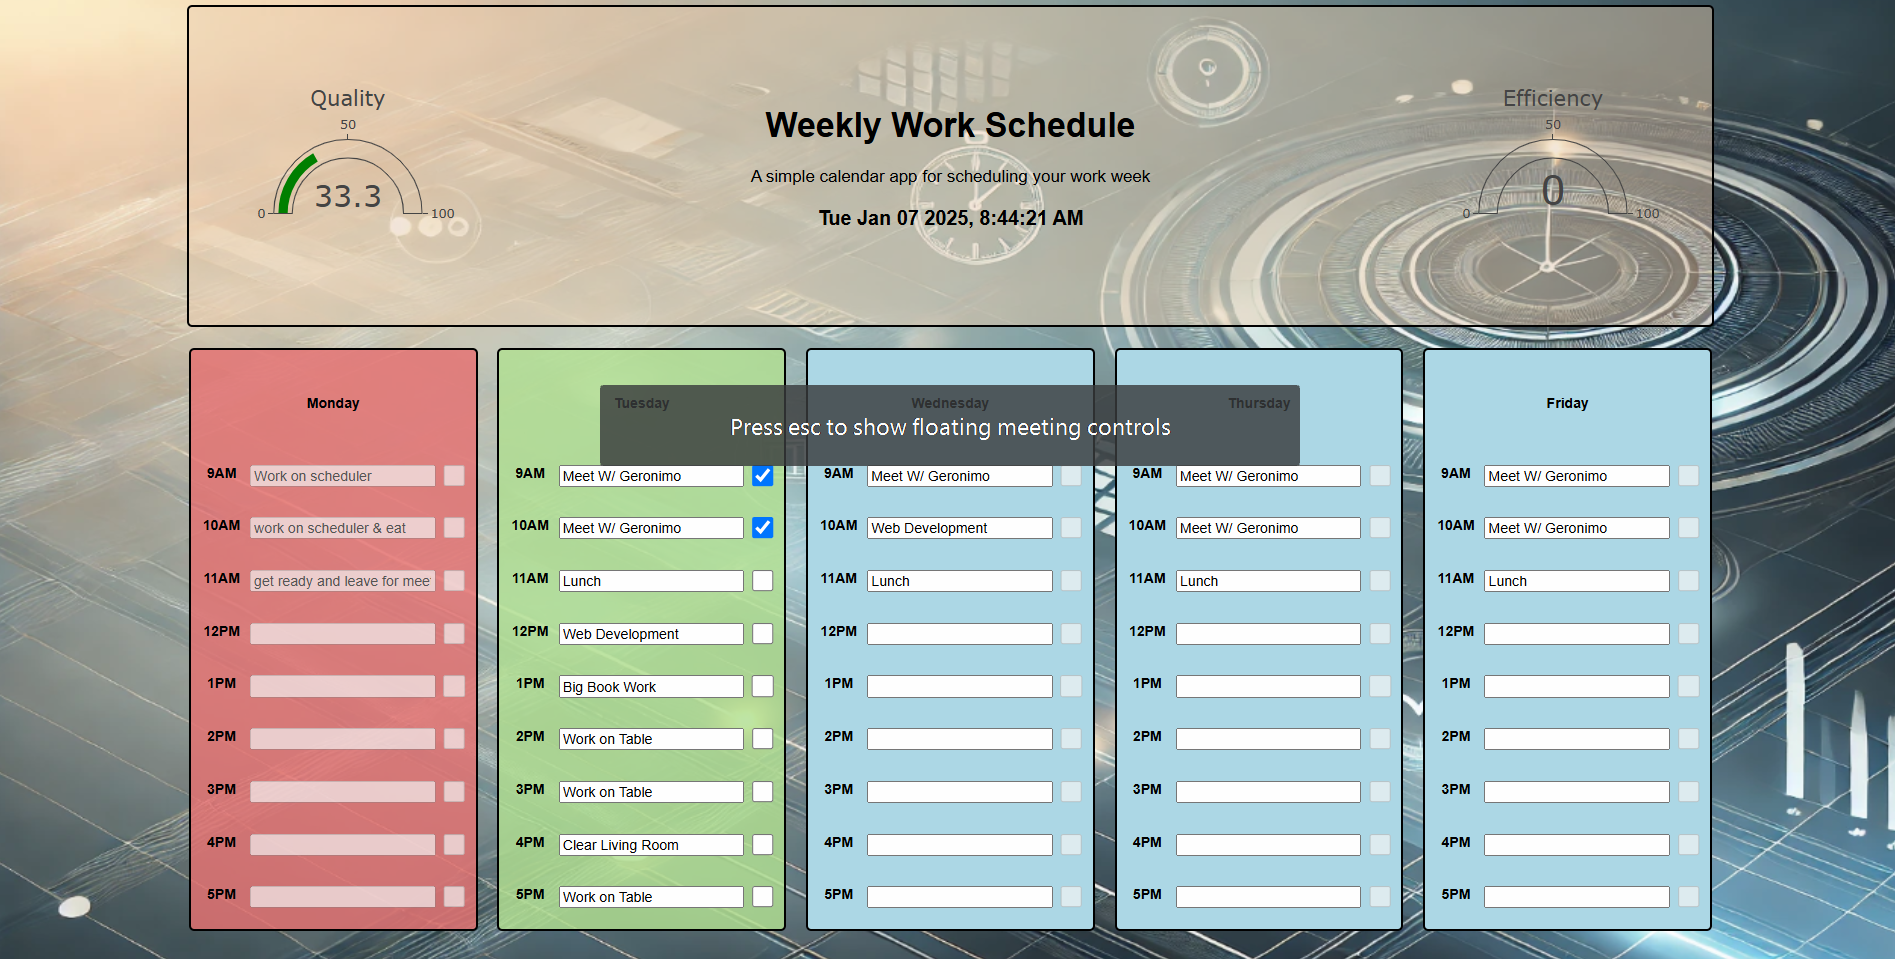
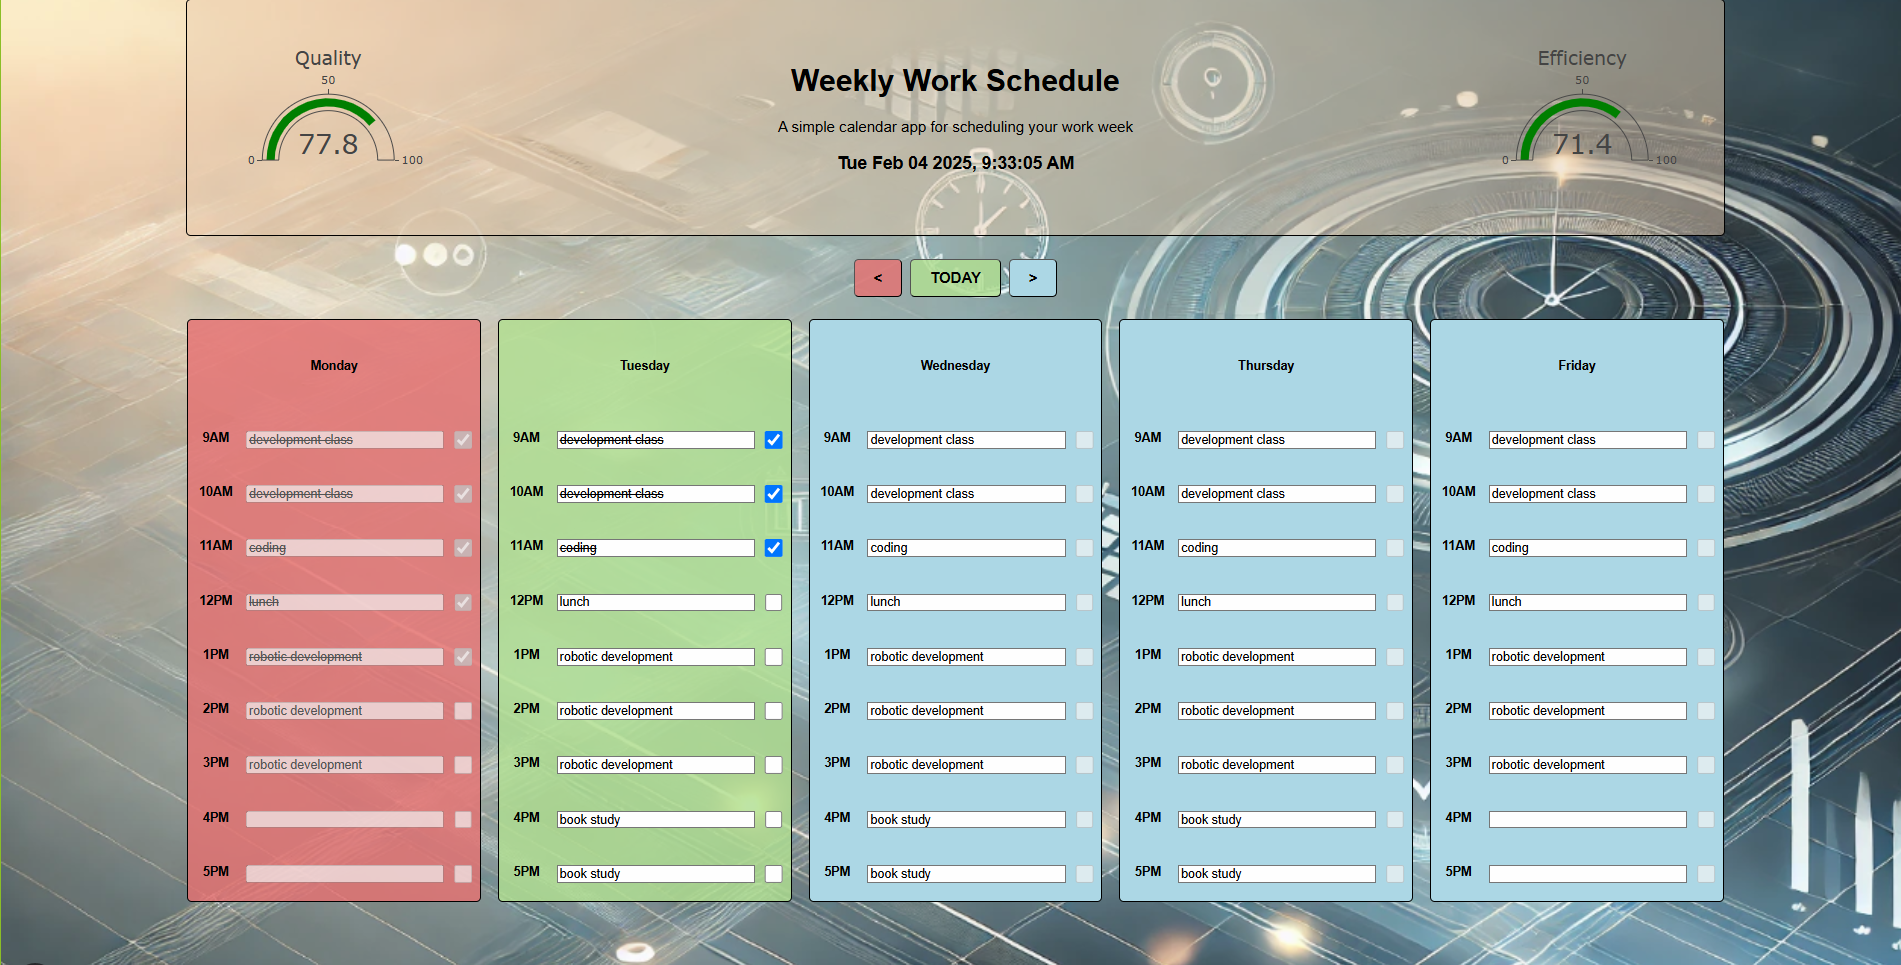
added a data.js file to populate current and past days for testing

diff --git a/assets/js/data.js b/assets/js/data.js
@@ -1,0 +1,43 @@
+let data = {
+    FriFeb072025_1PM: "robotic development",
+    FriFeb072025_2PM: "robotic development",
+    FriFeb072025_3PM: "robotic development",
+    FriFeb072025_9AM: "development class",
+    FriFeb072025_10AM: "development class",
+    FriFeb072025_11AM: "coding",
+    FriFeb072025_12PM: "lunch",
+    ThuFeb062025_1PM: "robotic development",
+    ThuFeb062025_2PM: "robotic development",
+    ThuFeb062025_3PM: "robotic development",
+    ThuFeb062025_4PM: "book study",
+    ThuFeb062025_5PM: "book study",
+    ThuFeb062025_9AM: "development class",
+    ThuFeb062025_10AM: "development class",
+    ThuFeb062025_11AM: "coding",
+    ThuFeb062025_12PM: "lunch",
+    TueFeb042025_2PM: "robotic development",
+    TueFeb042025_3PM: "robotic development",
+    TueFeb042025_1PM: "robotic development",
+    TueFeb042025_4PM: "book study",
+    TueFeb042025_5PM: "book study",
+    TueFeb042025_9AM: "development class_done",
+    TueFeb042025_10AM: "development class_done",
+    TueFeb042025_11AM: "coding",
+    TueFeb042025_12PM: "lunch",
+    MonFeb032025_2PM: "robotic development",
+    MonFeb032025_3PM: "robotic development",
+    MonFeb032025_1PM: "robotic development_done",
+    MonFeb032025_9AM: "development class_done_done",
+    MonFeb032025_10AM: "development class_done_done",
+    MonFeb032025_11AM: "coding_done",
+    MonFeb032025_12PM: "lunch_done",
+    WedFeb052025_1PM: "robotic development",
+    WedFeb052025_2PM: "robotic development",
+    WedFeb052025_3PM: "robotic development",
+    WedFeb052025_4PM: "book study",
+    WedFeb052025_5PM: "book study",
+    WedFeb052025_9AM: "development class",
+    WedFeb052025_10AM: "development class",
+    WedFeb052025_11AM: "coding",
+    WedFeb052025_12PM: "lunch"
+}

diff --git a/assets/js/script.js b/assets/js/script.js
@@ -1,9 +1,9 @@
 
 let store = [];
+const h24 = 60 * 60 * 24 * 1000;
 let now = Date.now();
 let d = new Date(now);
 let nextMonday = Date.now();
-const h24 = 60 * 60 * 24 * 1000;
 const main = document.getElementById('main');
 
 const handleChange = (e, dayTime) => {
@@ -181,6 +181,8 @@ const init = (d) => {
 
     var layout = { width: 350, height: 80, paper_bgcolor: 'transparent', margin: { t: 10, b: 40, l: 120, r: 60 } };
     Plotly.newPlot('chart2b', data, layout);
+
+    console.log(totalScheduled, totalHours, totalDone);
   };
 
   handleStorage();

diff --git a/index.html b/index.html
@@ -39,6 +39,7 @@
     </div>
   </div>
   <script src="assets/js/script.js"></script>
+  <script src="assets/js/data.js"></script>
 </body>
 
 </html>

diff --git a/README.md b/README.md
@@ -5,7 +5,7 @@
 [website](https://jasoncano1.github.io/Workday-Scheduler/)
 
 ## Description
-A 5 day work week scheduler that measures quality ands efficiency. 
+A five-day workweek scheduler that tracks quality and efficiency. 
 
 ![app_image](assets/images/mockup.png)
 
